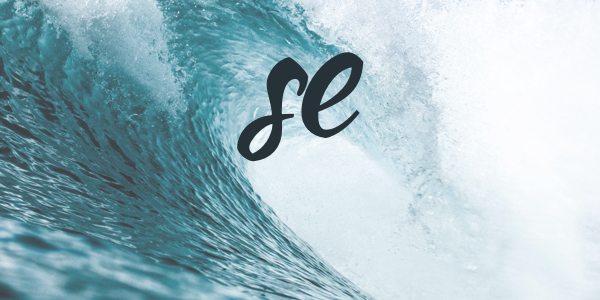
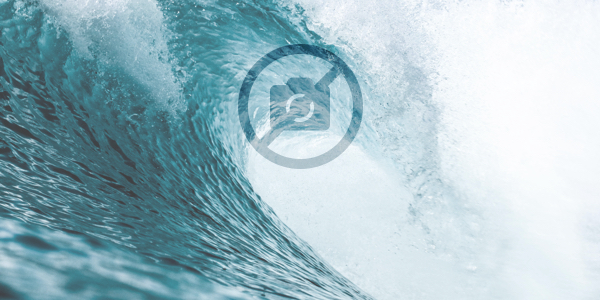
Add minor changes to the menu size and dummy img

Changed region(s): [[0.39, 0.15, 0.63, 0.57]]

diff --git a/templates/base.html b/templates/base.html
@@ -37,18 +37,18 @@
     <!-- Mobile menu side navigation sctructure -->
 
     <ul class="sidenav font-oswald center-align" id="mobile-demo">
-        <li><a href="{{ url_for('index') }}">Home</a></li>
-        <li><a href="{{ url_for('locations') }}">All Locations</a></li>
-        <li><a href="{{ url_for('search') }}">Search</a></li>
-        <li><a href="{{ url_for('add_spot') }}">Add Spot</a></li>
-        <li><a href="{{ url_for('about') }}">About</a></li>
+        <li><a href="{{ url_for('index') }}"><h5>Home</h5></a></li>
+        <li><a href="{{ url_for('locations') }}"><h5>All Locations</h5></a></li>
+        <li><a href="{{ url_for('search') }}"><h5>Search</h5></a></li>
+        <li><a href="{{ url_for('add_spot') }}"><h5>Add Spot</h5></a></li>
+        <li><a href="{{ url_for('about') }}"><h5>About</h5></a></li>
         <li class="divider"></li>
         {% if user %}
-        <li><a href="{{ url_for('aloha', username=user) }}">{{ user | capitalize }}</a></li>
-        <li><a href="{{ url_for('user_logout') }}">Log Out</a></li>
+        <li><a href="{{ url_for('aloha', username=user) }}"><h5>{{ user | capitalize }}</h5></a></li>
+        <li><a href="{{ url_for('user_logout') }}"><h5>Log Out</h5></a></li>
         {% else %}
-        <li><a href="{{ url_for('user') }}">Log In</a></li>
-        <li><a href="{{ url_for('register') }}">Register</a></li>
+        <li><a href="{{ url_for('user') }}"><h5>Log In</h5></a></li>
+        <li><a href="{{ url_for('register') }}"><h5>Register</h5></a></li>
         {% endif %}
     </ul>
 
@@ -86,13 +86,13 @@
                 </div>
             </div>
             <div class="col s6 l3 font-oswald center-align">
-                <h5 class="white-text">Links</h5>
+                <!-- <h5 class="white-text">Links</h5> -->
                 <ul>
-                <li><a class="grey-text text-lighten-3" href="{{ url_for('index') }}">Home</a></li>
-                <li><a class="grey-text text-lighten-3" href="{{ url_for('locations') }}">All Locations</a></li>
-                <li><a class="grey-text text-lighten-3" href="{{ url_for('search') }}">Search</a></li>
-                <li><a class="grey-text text-lighten-3" href="{{ url_for('add_spot') }}">Add Spot</a></li>
-                <li><a class="grey-text text-lighten-3" href="{{ url_for('about') }}">About</a></li>
+                <li><a class="grey-text text-lighten-3" href="{{ url_for('index') }}"><h6>Home</h6></a></li>
+                <li><a class="grey-text text-lighten-3" href="{{ url_for('locations') }}"><h6>All Locations</h6></a></li>
+                <li><a class="grey-text text-lighten-3" href="{{ url_for('search') }}"><h6>Search</h6></a></li>
+                <li><a class="grey-text text-lighten-3" href="{{ url_for('add_spot') }}"><h6>Add Spot</h6></a></li>
+                <li><a class="grey-text text-lighten-3" href="{{ url_for('about') }}"><h6>About</h6></a></li>
                 </ul>
             </div>
             <div class="col s6 l3 logo center-align">

diff --git a/templates/locations.html b/templates/locations.html
@@ -53,7 +53,7 @@
                             <img src="{{ location.img_url[0] }}" onError="this.onError=null;this.src='../static/assets/dummy_cover.jpg'">
                         {% endif %}
                         <div class="card-title">
-                            <span>{{ location._id | title }}</span>
+                            <span class="font-oswald">{{ location._id | upper }}</span>
                         </div>
                         <div class="btn-floating halfway-fab transparent center-align">
                             <i class="material-icons">star</i>
